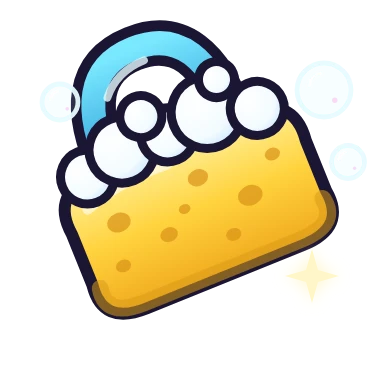
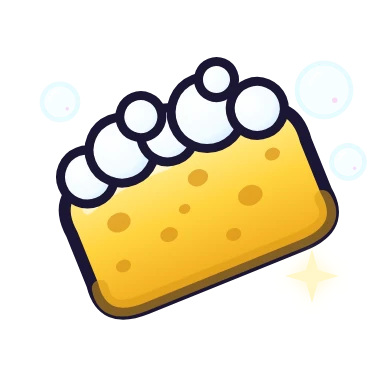
Car-wash sponge without its blue strap handle (owner: read as a confusing big bubble/blue line); bubbles + sparkle kept; build v21
Claude-Session: https://claude.ai/code/session_01DuHcCoEE7MFMsKJaZZYoVM

Changed region(s): [[0.1875, 0.0312, 0.5938, 0.4062]]

diff --git a/index.html b/index.html
@@ -11,12 +11,12 @@
   <meta name="apple-mobile-web-app-status-bar-style" content="black-translucent" />
   <meta name="apple-mobile-web-app-title" content="GTA7" />
   <title>GTA 7 · Neon City</title>
-  <link rel="manifest" href="manifest.webmanifest?v=v20" />
-  <link rel="icon" type="image/png" href="assets/favicon.png?v=v20" />
-  <link rel="apple-touch-icon" href="assets/apple-touch-icon.png?v=v20" />
+  <link rel="manifest" href="manifest.webmanifest?v=v21" />
+  <link rel="icon" type="image/png" href="assets/favicon.png?v=v21" />
+  <link rel="apple-touch-icon" href="assets/apple-touch-icon.png?v=v21" />
   <link rel="preload" href="vendor/fonts/fredoka-latin.woff2" as="font" type="font/woff2" crossorigin />
-  <link rel="stylesheet" href="engine.css?v=v20" />
-  <link rel="stylesheet" href="style.css?v=v20" />
+  <link rel="stylesheet" href="engine.css?v=v21" />
+  <link rel="stylesheet" href="style.css?v=v21" />
 </head>
 <body>
   <!-- Home: full-screen splash + bottom sheet -->
@@ -103,9 +103,9 @@
   <!-- Night veil ("rest" transition), fullscreen -->
   <div id="night-veil"></div>
 
-  <script src="vendor/phaser.min.js?v=v20"></script>
-  <script src="game.config.js?v=v20"></script>
-  <script src="game.i18n.js?v=v20"></script>
-  <script src="engine.js?v=v20"></script>
+  <script src="vendor/phaser.min.js?v=v21"></script>
+  <script src="game.config.js?v=v21"></script>
+  <script src="game.i18n.js?v=v21"></script>
+  <script src="engine.js?v=v21"></script>
 </body>
 </html>

diff --git a/game.config.js b/game.config.js
@@ -28,7 +28,7 @@ window.GAME = {
     tagline: "Roule, livre, fais la course… et sème la police !",
     saveKey: "gta7-neon-city",
     audience: { minAge: 10, notes: "arcade/cartoon action, top-down driving, mild — no weapons, no gore, no blood, no explicit content" },
-    assetVersion: "v20",
+    assetVersion: "v21",
     theme: { home: "#160f28", play: "#141024", closeup: "#141024" },
 
     showCoins: true,
